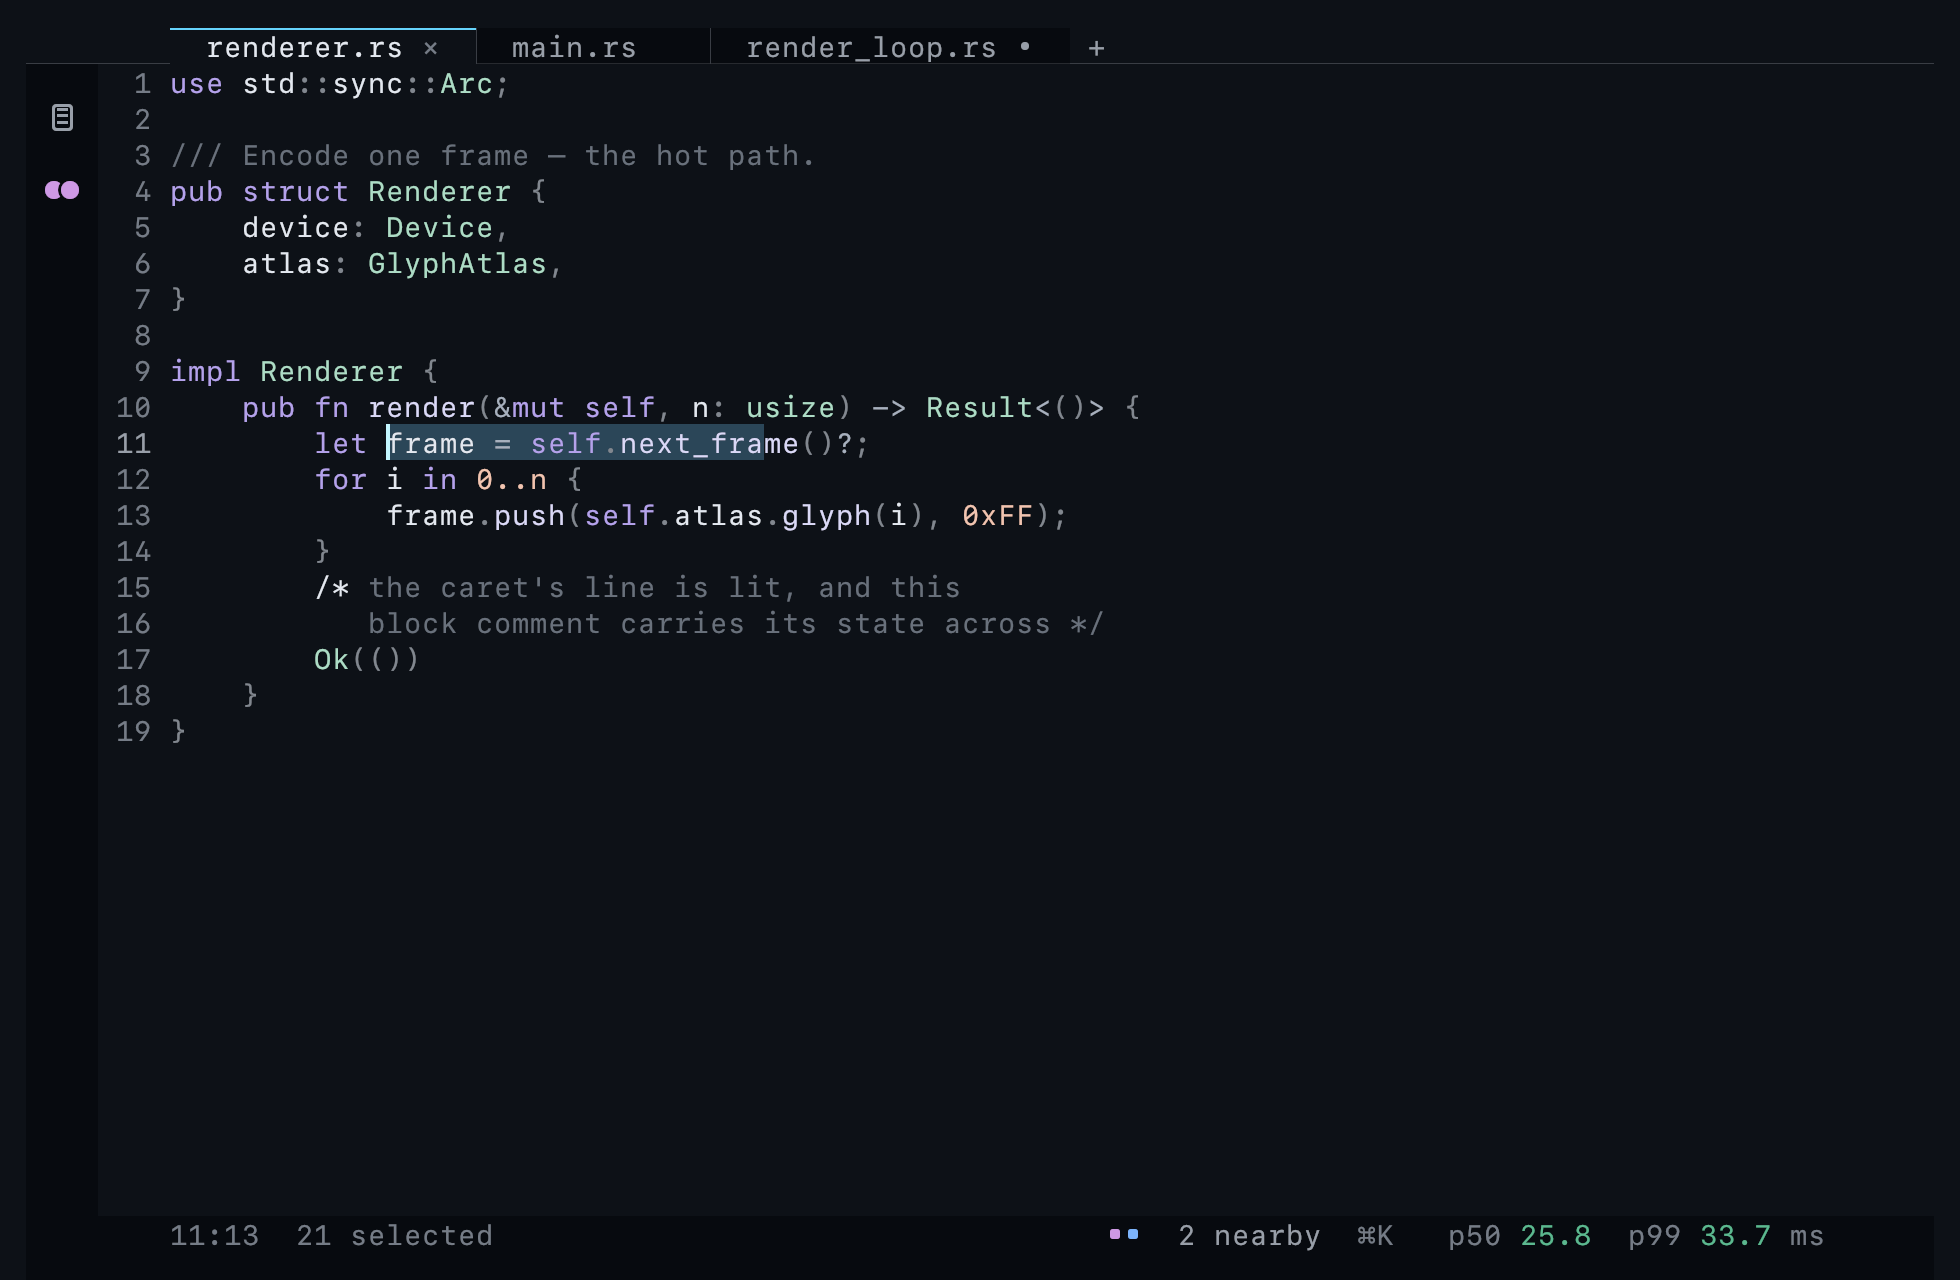
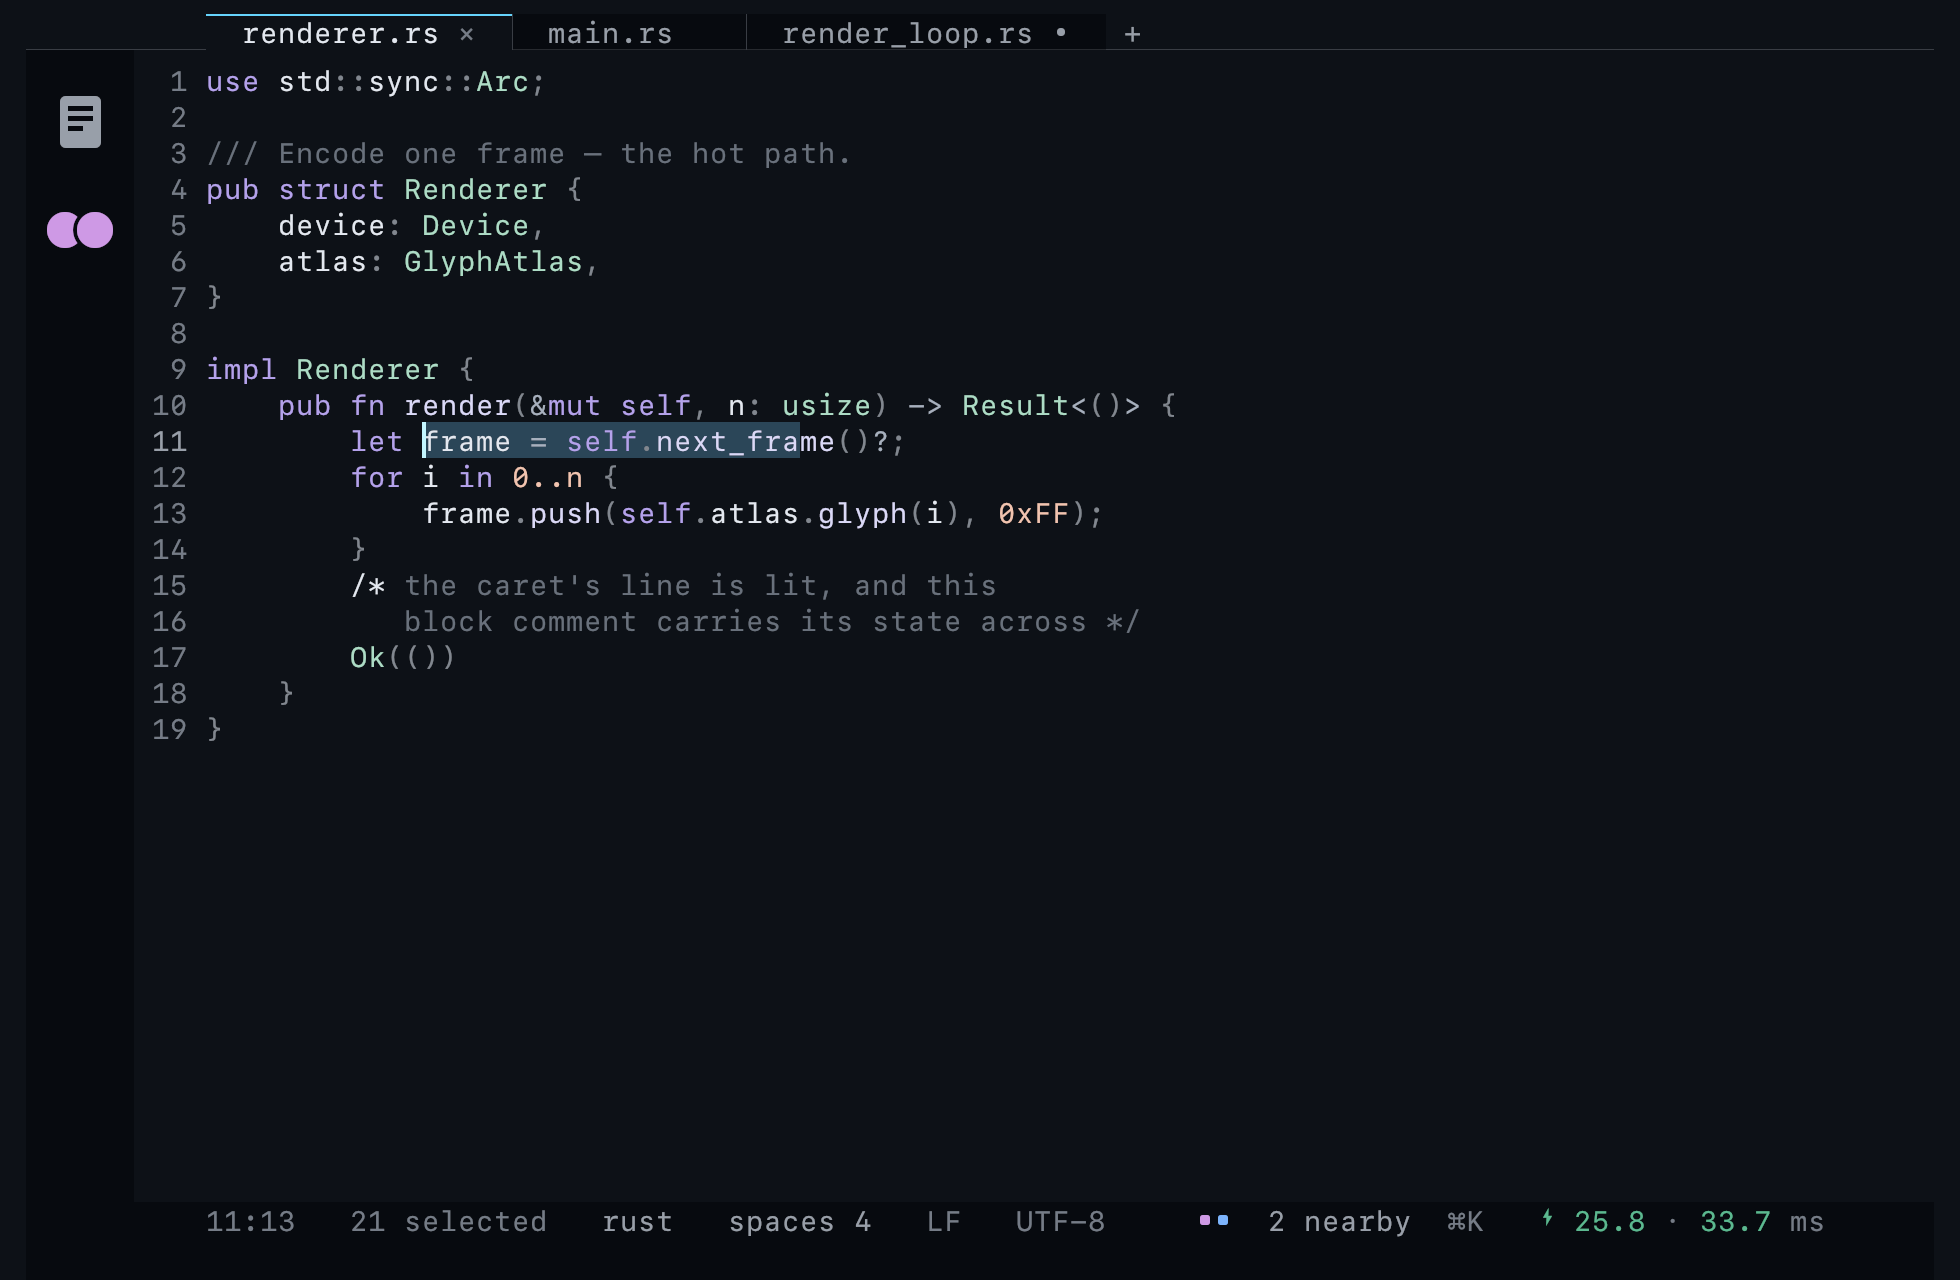
Shots: freeze the pre-§5.7 set, and regenerate at the new density
`before-density/` joins `before/` and `before-editor/` as a frozen baseline — the
set that was put beside VS Code and read as a very clean prototype: 28 device
pixels of unchosen ground above the tab strip and none below it, a four-cell rail
carrying two 18 pt outline icons, and a status line with two facts on it while
three parts of the program between them knew four more.

Regenerated offscreen, which is the whole reason `--screenshot` exists: it needs
no window and no display, so it works while the screensaver that blocks every
photon bench is up.

diff --git a/docs/shots/README.md b/docs/shots/README.md
@@ -12,13 +12,23 @@ reviewed by eye, structure is checked by `beam --dump-scene`, and both lay out o
 the same grid so they cannot disagree. `atlas.png` is the glyph atlas itself —
 the first thing to look at when the grid goes soft.
 
-Two frozen baselines are kept as the other halves of their pairs, and neither
+Three frozen baselines are kept as the other halves of their pairs, and none
 will be regenerated:
 
 - `before/` — before §5.2's typography, palette, window and composition work.
 - `before-editor/` — before §5.3. This is the "it looks excellent and it is
   unmistakably a TUI" set: a peer list as the launch screen, a fixed 200x120
   ASCII cell array with no file, no gutter, no selection and no scrolling.
+- `before-density/` — before §5.7. The set that was put beside VS Code and read
+  as a very clean *prototype*: 28 device pixels of unchosen ground above the tab
+  strip and none below it, a four-cell rail carrying two 18 pt outline icons
+  that read as dithering, and a status line with two facts on it while the
+  lexer, the open path and `Document` between them knew four more.
+
+`--screenshot` also takes `--point-size <pt>`, which renders any surface at any
+zoom step. It is how §5.7's derived 1:2 cell is checked by eye rather than
+trusted: the rail icons and the join code's block digits have to stay square at
+every step, and that claim is worth looking at as well as asserting.
 
 `rejected/` holds the two §5.3 candidates that were drawn before being turned
 down, because the honest way to reject a design is to render it and look at it:
